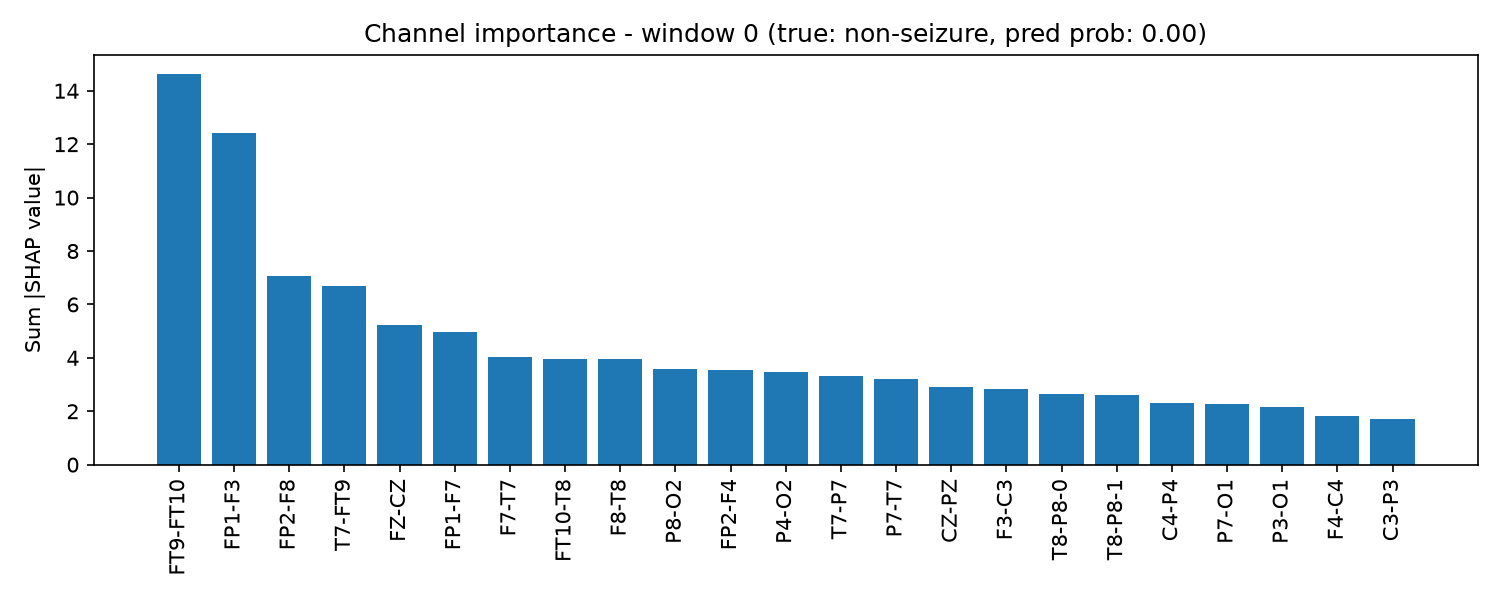
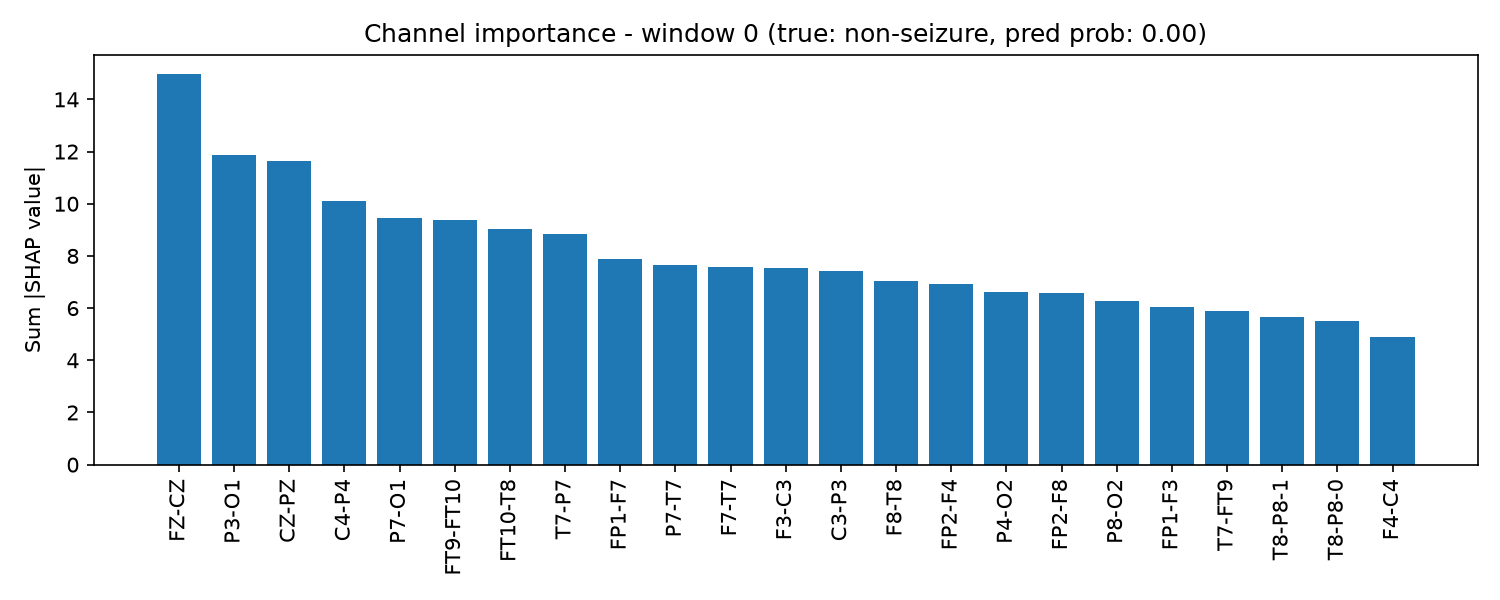
Add per-channel z-score normalization to fix SHAP amplitude confound
Problem:
- Channel-importance charts from explain_shap.py consistently ranked
  FT9-FT10 as the top channel across nearly every window (seizure and
  non-seizure alike, on both the chb01-only and 5-subject combined
  models) - a suspicious pattern, since a genuinely seizure-relevant
  channel should not dominate non-seizure windows equally.
- Root cause: preprocess_subject.py windowed raw EEG amplitudes
  (in microvolts) with no per-channel scaling. Channels naturally
  differ in baseline amplitude regardless of seizure activity (e.g.
  temporal channels near muscle tend to run "louder"), and
  gradient-based SHAP is sensitive to this input scale - so the
  charts were partly reflecting channel loudness, not seizure
  relevance.

Fix:
- preprocess_subject.py: added per-channel z-score normalization
  (zero mean, unit variance), computed per recording immediately
  after filtering and before windowing. Each channel is normalized
  using only its own recording's statistics, preserving genuine
  within-channel changes over time (e.g. a seizure spike relative to
  that channel's own baseline) while removing cross-channel scale
  differences.

Result:
- Re-ran preprocessing + retrained both models on normalized data.
- Combined (chb01-05) model's SHAP rankings now vary meaningfully by
  window (FZ-CZ, CZ-PZ, T7-P7 etc. appear as top channels depending
  on content) instead of FT9-FT10 dominating everything - confirms
  the amplitude-scale theory.
[…]

diff --git a/preprocess_subject.py b/preprocess_subject.py
@@ -112,6 +112,27 @@ for i, edf_file in enumerate(edf_files, 1):
         sfreq = raw.info["sfreq"]
         data = raw.get_data().astype(np.float32)
 
+        # ---------------------------------------------------------
+        # Per-channel z-score normalization (per recording).
+        #
+        # Different EEG channels have naturally different raw signal
+        # amplitudes (e.g. temporal channels near muscle tend to run
+        # "louder" than central ones) - unrelated to seizure activity.
+        # Without this, downstream explainability (SHAP) tends to just
+        # rank high-amplitude channels as "important" regardless of
+        # whether they're actually seizure-relevant, since it's picking
+        # up on scale rather than signal content.
+        #
+        # Each channel is normalized independently, using only this
+        # recording's own mean/std (not global dataset statistics) -
+        # this keeps within-channel temporal changes (e.g. a seizure
+        # causing a spike relative to that channel's own baseline)
+        # intact, while removing cross-channel scale differences.
+        channel_mean = data.mean(axis=1, keepdims=True)
+        channel_std = data.std(axis=1, keepdims=True)
+        data = (data - channel_mean) / (channel_std + 1e-8)  # epsilon avoids div-by-zero on flat/dead channels
+        # ---------------------------------------------------------
+
         if reference_n_channels is None:
             reference_n_channels = data.shape[0]
         elif data.shape[0] != reference_n_channels:
@@ -154,9 +175,6 @@ for i, edf_file in enumerate(edf_files, 1):
 # ---------------------------------------------------------------------
 print(f"\nCombining {len(saved_chunks)} saved chunks...")
 
-# First pass: just check sizes (using mmap_mode="r" reads the array's
-# shape from disk without loading its actual contents into memory) so
-# we know how big to make the final combined array.
 total_windows = 0
 sample_shape = None
 for stem in saved_chunks:
@@ -171,22 +189,13 @@ OUT_DIR.mkdir(parents=True, exist_ok=True)
 final_windows_path = OUT_DIR / f"{SUBJECT}_windows.npy"
 final_labels_path = OUT_DIR / f"{SUBJECT}_labels.npy"
 
-# open_memmap creates a .npy file on disk that behaves like a normal
-# numpy array, but writes go straight to disk instead of RAM - this is
-# what lets us build a large combined dataset without needing enough
-# RAM to hold the whole thing.
 final_windows = np.lib.format.open_memmap(
     final_windows_path, mode="w+", dtype=np.float32,
     shape=(total_windows, *sample_shape)
 )
 final_labels = np.zeros(total_windows, dtype=np.int8)
-# Tracks which source file each window came from (as an integer index
-# into saved_chunks) - used later to split train/test by file rather
-# than by individual window, which would otherwise leak near-duplicate
-# overlapping windows across the split.
 final_file_ids = np.zeros(total_windows, dtype=np.int32)
 
-# Second pass: copy each file's chunk into its slot in the final array
 offset = 0
 for file_idx, stem in enumerate(saved_chunks):
     w = np.load(TMP_DIR / f"{stem}_windows.npy")
@@ -199,10 +208,9 @@ for file_idx, stem in enumerate(saved_chunks):
     del w, l
     gc.collect()
 
-final_windows.flush()  # ensure everything written to the memmap hits disk
+final_windows.flush()
 np.save(final_labels_path, final_labels)
 np.save(OUT_DIR / f"{SUBJECT}_file_ids.npy", final_file_ids)
-# also save which filename each file_id corresponds to, for reference
 with open(OUT_DIR / f"{SUBJECT}_file_names.txt", "w") as f:
     f.write("\n".join(saved_chunks))
 
